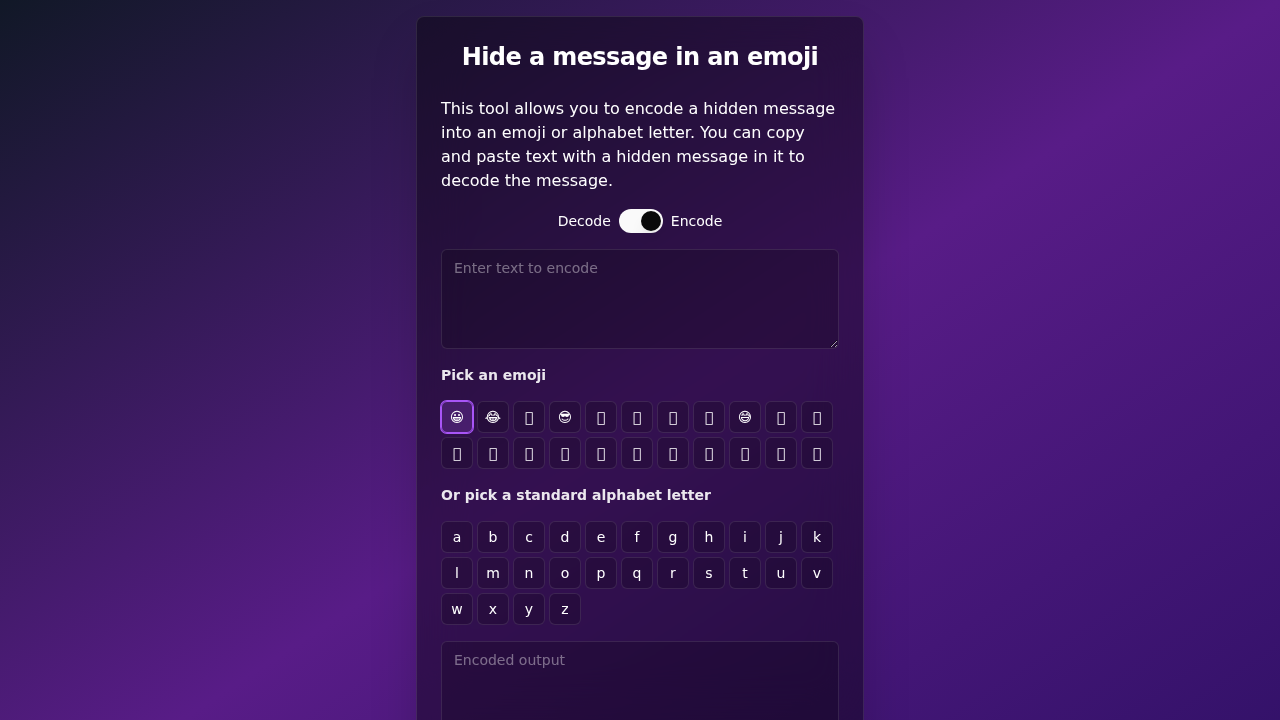
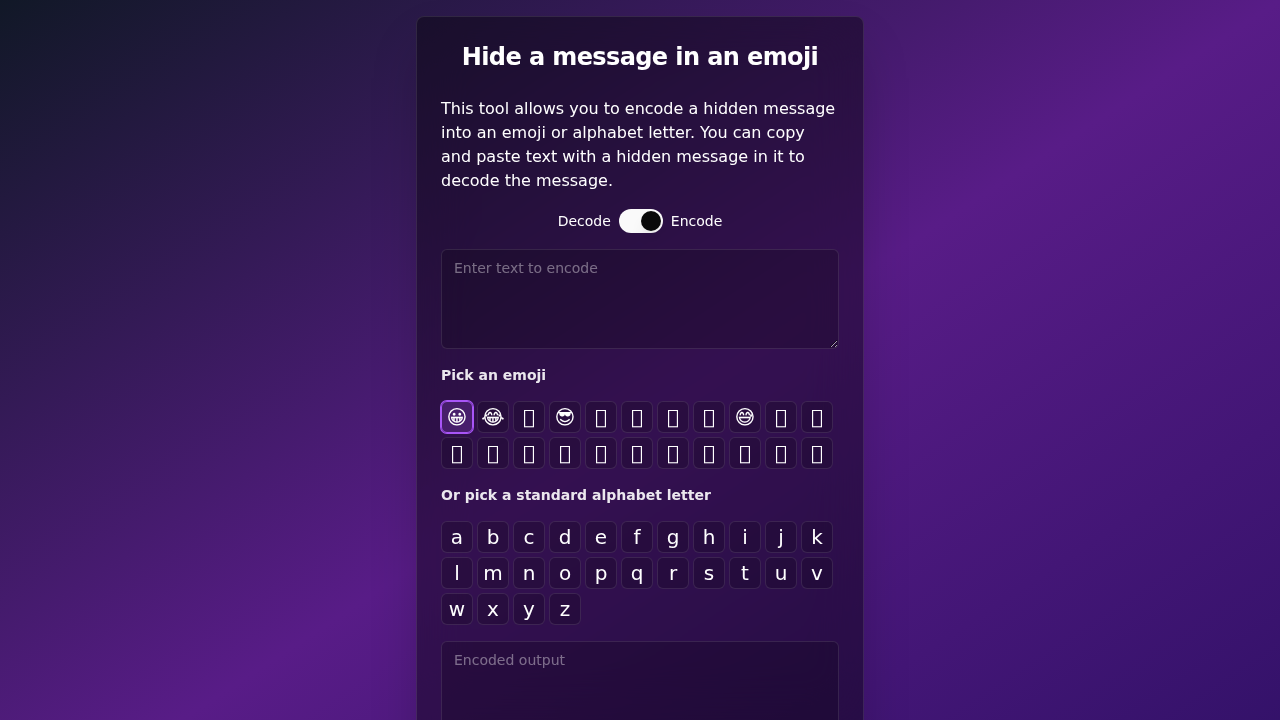
Update UI to fancy dark mode and change footer
- Enforce dark mode by adding `dark` class to `html` in `layout.tsx`.
- Update `page.tsx` with a dark gradient background and glassmorphism card styles.
- Replace the "Source on GitHub" footer with "Build by saim".
- Update `components/emoji-selector.tsx` and `app/encoder-decoder-content.tsx` to ensure text and inputs are visible and styled consistently with the dark theme.
- Fix invisible emoji issue by adding `text-white` to emoji buttons.

diff --git a/components/emoji-selector.tsx b/components/emoji-selector.tsx
@@ -16,7 +16,7 @@ export function EmojiSelector({ onEmojiSelect, disabled, selectedEmoji, emojiLis
         <Button
           key={emoji}
           variant="outline"
-          className={`w-8 h-8 p-0 disabled:opacity-50 bg-black/20 hover:bg-white/10 border-white/10 ${emoji === selectedEmoji ? "bg-purple-500/20 border-purple-500 ring-1 ring-purple-500" : ""}`}
+          className={`w-8 h-8 p-0 disabled:opacity-50 bg-black/20 hover:bg-white/10 border-white/10 text-xl text-white ${emoji === selectedEmoji ? "bg-purple-500/20 border-purple-500 ring-1 ring-purple-500" : ""}`}
           onClick={() => onEmojiSelect(emoji)}
           disabled={disabled}
         >
